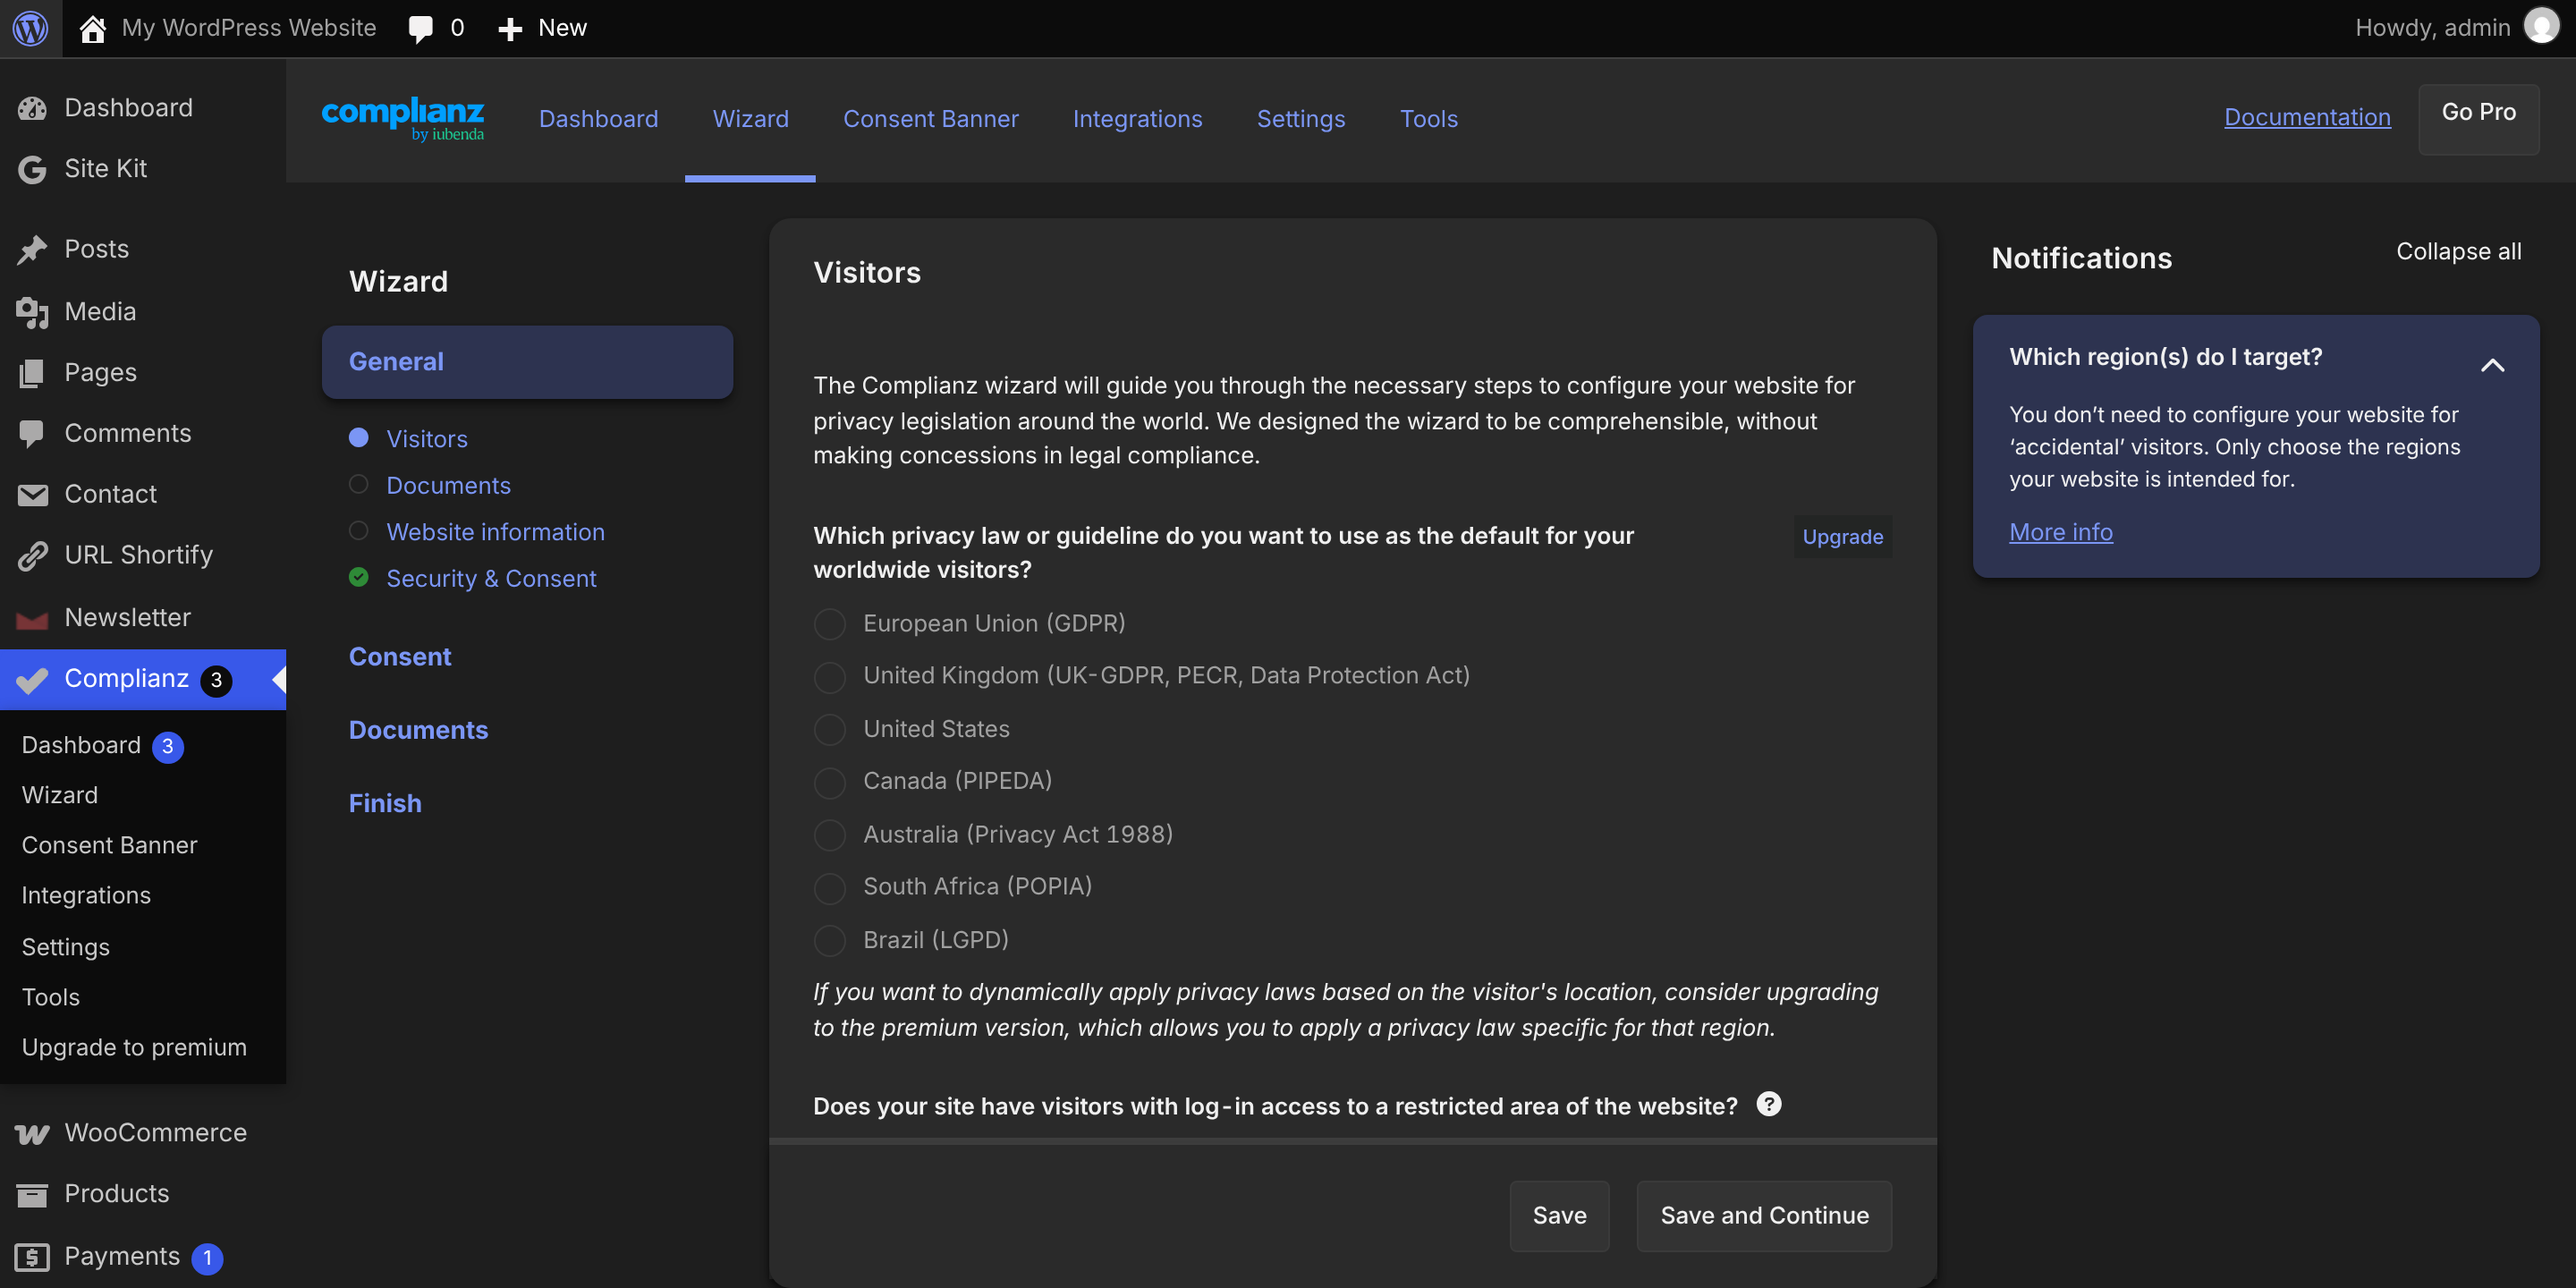
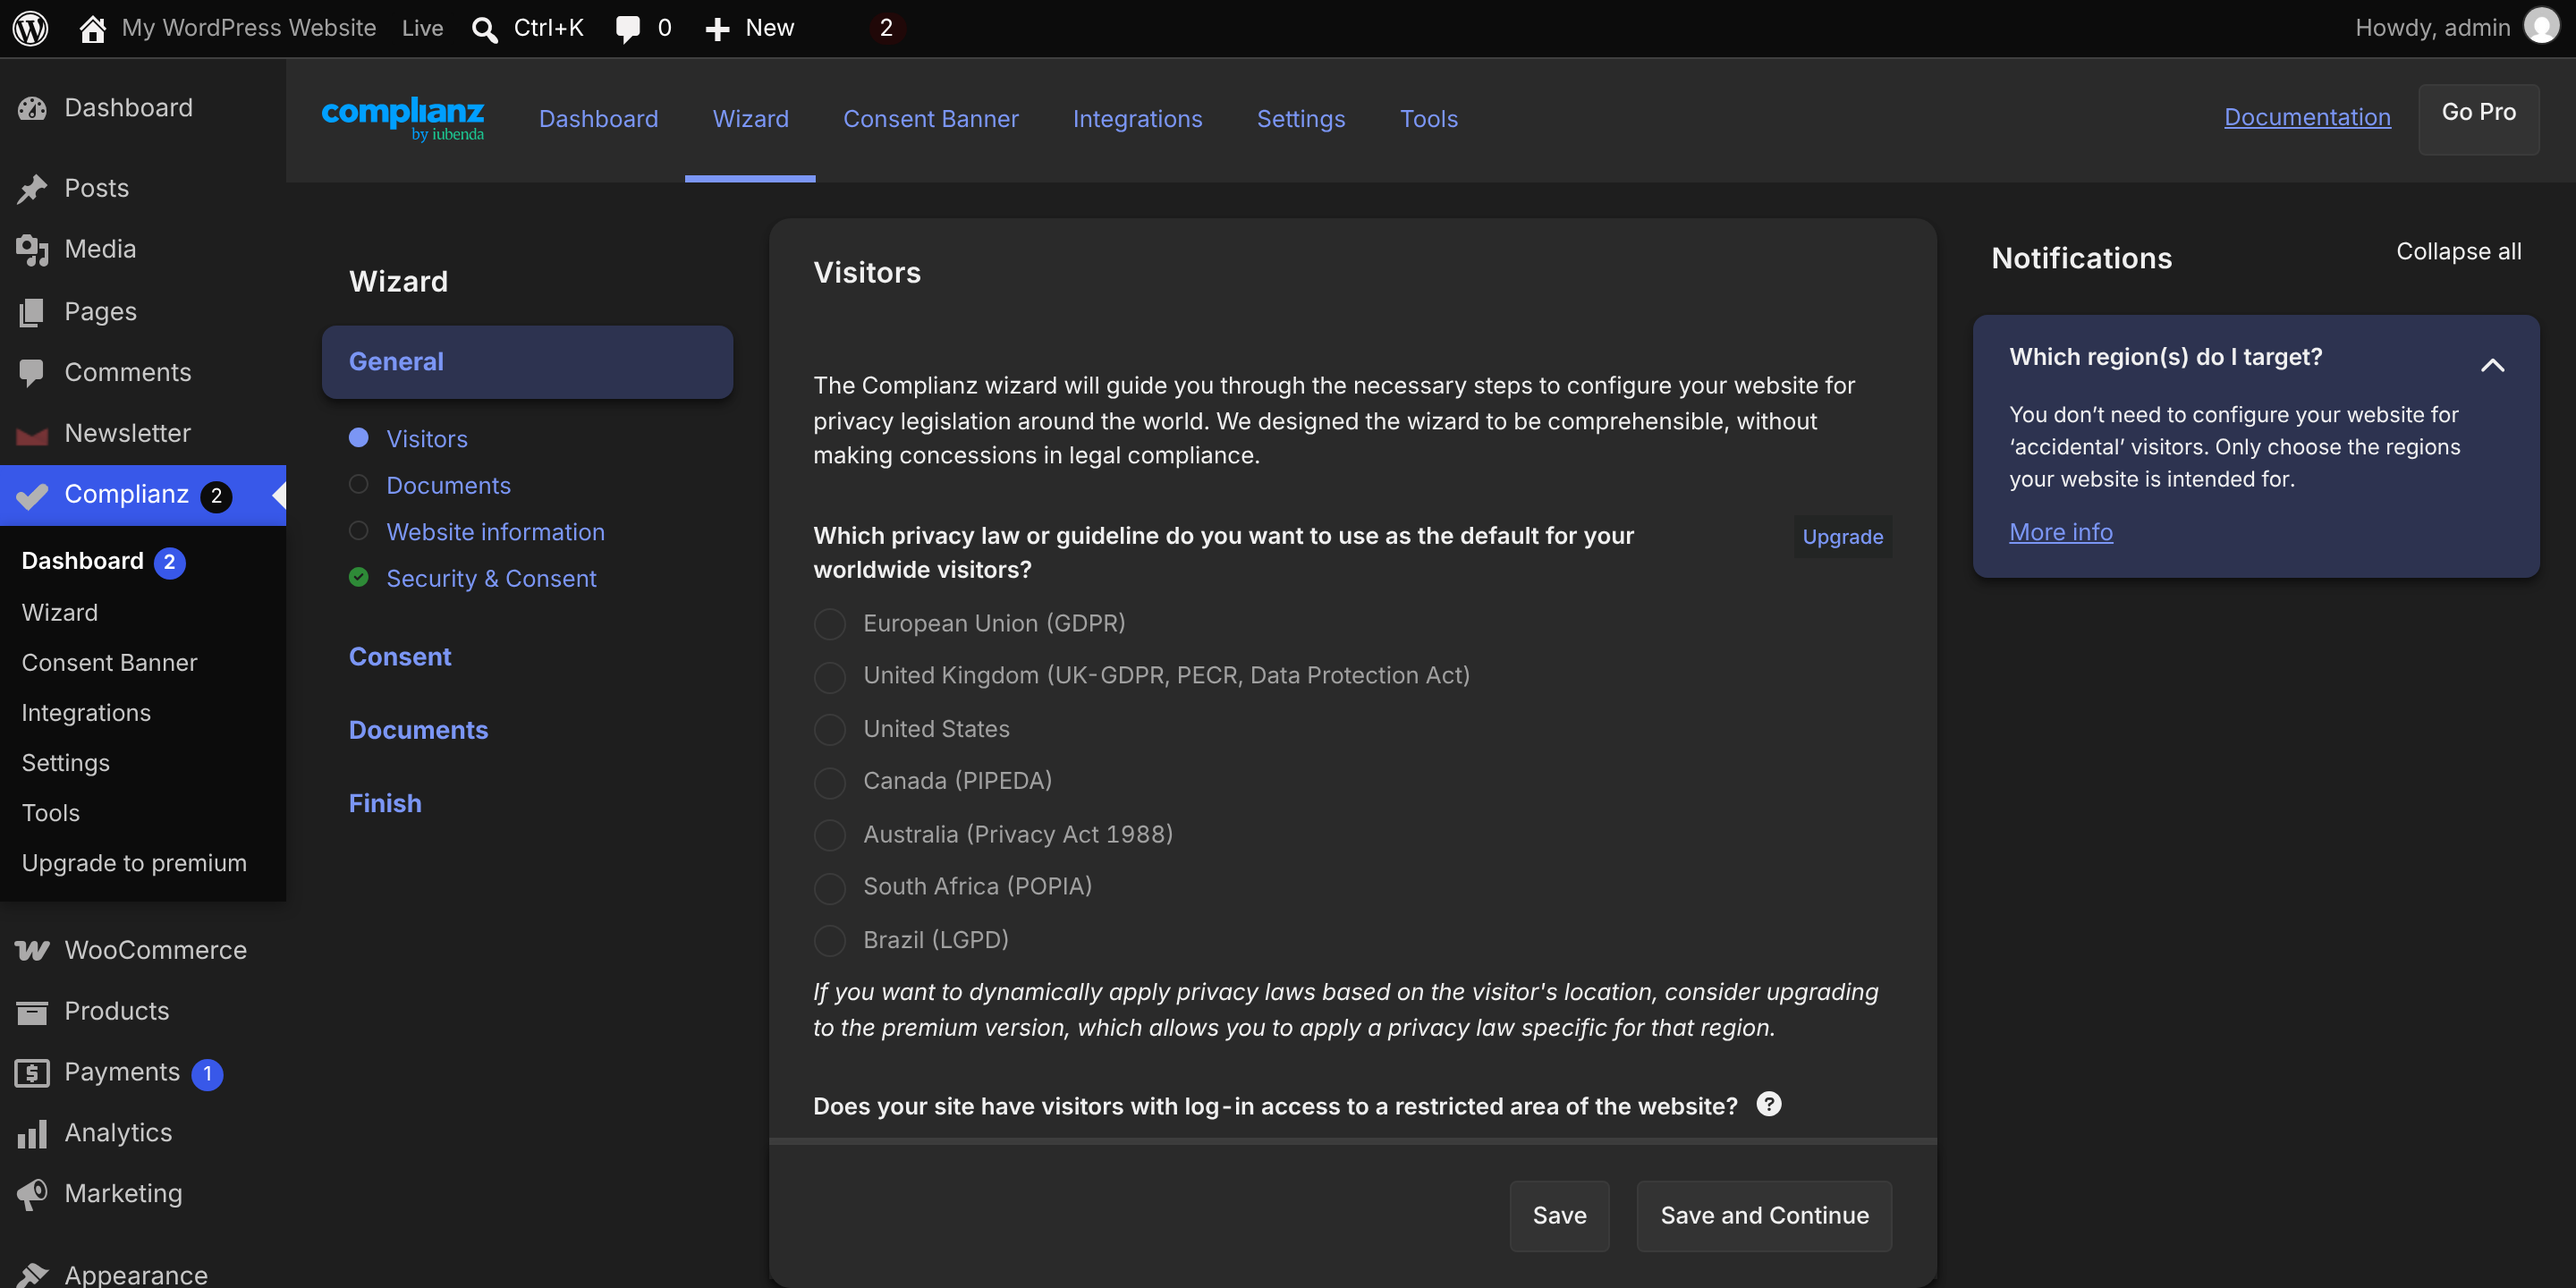
docs: retake all screenshots and add site editor, login and exclusions
Retake screenshot-1 to screenshot-22 on WordPress 7.1.4 at the existing
2880x1440 size and add screenshot-23 (dark site editor), screenshot-24
(dark login page) and screenshot-25 (Excluded Plugins setting). List
the new screenshots in readme.txt, readme-de.txt and the README table,
update the caption of screenshot-22 and note the refresh in the 0.6.0
changelogs.

diff --git a/README.md b/README.md
@@ -87,9 +87,17 @@ customization and Auto Dark Mode support.
 | ----------------------------------- | ----------------------------------- |
 | ![Screenshot 19](screenshot-19.png) | ![Screenshot 20](screenshot-20.png) |
 
-| Block Editor - inserter             | Settings - block editor options     |
+| Block Editor - inserter             | Settings - editor and login options |
 | ----------------------------------- | ----------------------------------- |
 | ![Screenshot 21](screenshot-21.png) | ![Screenshot 22](screenshot-22.png) |
+
+| Site Editor                         | Login page                          |
+| ----------------------------------- | ----------------------------------- |
+| ![Screenshot 23](screenshot-23.png) | ![Screenshot 24](screenshot-24.png) |
+
+| Settings - Excluded Plugins         |
+| ----------------------------------- |
+| ![Screenshot 25](screenshot-25.png) |
 
 ---
 
@@ -125,6 +133,8 @@ customization and Auto Dark Mode support.
 
 - GitHub Actions pinned to commit SHAs
 - New workflow to update WordPress.org assets without a release
+- All screenshots retaken on WordPress 7.1, plus new screenshots of the site editor, the login page
+  and the Excluded Plugins setting
 
 ## [0.5.0] - 2026-11-07
 
@@ -534,6 +544,8 @@ Farbanpassung und Auto-Dark-Mode-Unterstützung.
 
 - GitHub Actions auf Commit-SHAs festgelegt
 - Neuer Workflow, um WordPress.org-Assets ohne Release zu aktualisieren
+- Alle Screenshots unter WordPress 7.1 neu aufgenommen, dazu neue Screenshots von Website-Editor,
+  Login-Seite und den ausgeschlossenen Plugins
 
 ## 0.5.0
 

diff --git a/CHANGELOG.md b/CHANGELOG.md
@@ -52,6 +52,9 @@ The format follows [Keep a Changelog](https://keepachangelog.com/en/1.0.0/).
 - GitHub Actions are pinned to commit SHAs.
 - New manual `update-assets.yml` workflow (with dry run) syncs screenshots, banners, icons and
   `readme.txt` to WordPress.org without a new release.
+- All screenshots retaken on WordPress 7.1, plus new screenshots of the site editor
+  (`screenshot-23.png`), the dark login page (`screenshot-24.png`) and the Excluded Plugins setting
+  (`screenshot-25.png`).
 
 ## [0.5.0] - 2026-11-07
 
